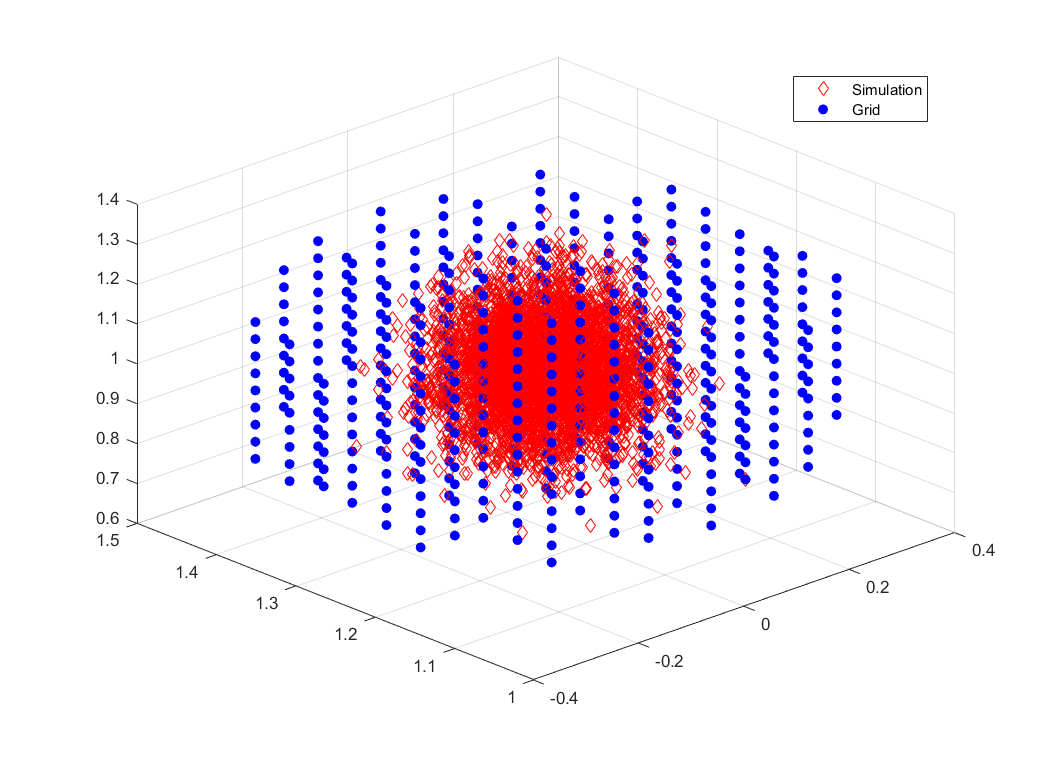
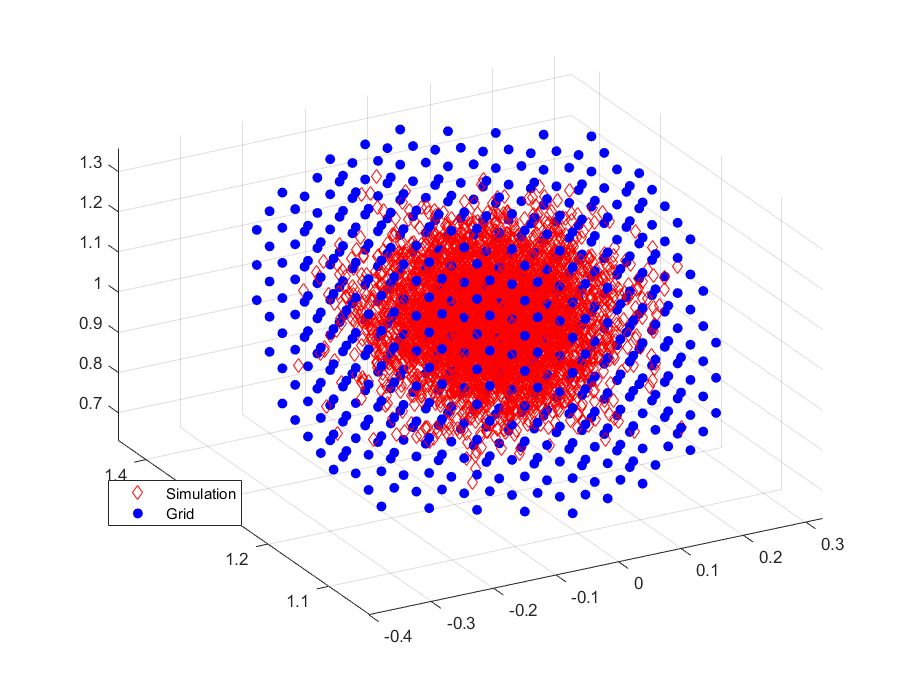
Correct covariance matrix for stationary VAR distribution.

diff --git a/TimeSeries.cpp b/TimeSeries.cpp
@@ -6,7 +6,6 @@
 #include <string>
 
 using namespace arma;
-using namespace std;
 
 namespace TimeSeries {
 
@@ -65,17 +64,30 @@ const MvNormal VAR::conditional(vec& current) const
 
 void VAR::findStationary()
 {
-    // TODO Fail on invert of non-stationary case? Unit root?
     const mat eyeRho = eye(m_size, m_size) - m_rho;
+    double theDet = det(eyeRho);
+
+    if (fabs(theDet) < TStol) {
+        cout << "Determinant " << det(eyeRho) << endl;
+        is_stationary = false;
+        m_statMean.reset();
+        m_statSigma.reset();
+        return;
+    } else
+        is_stationary = true;
+
     m_statMean = solve(eyeRho, m_intercept);
 
-    const mat tmp = inv(eyeRho);
-    m_statSigma = tmp * m_sigma * tmp.t();
-
-    vec eigval;
-    mat eigvec;
-    eig_sym(eigval, eigvec, m_statSigma);
-    is_stationary = eigval.min() >= 0.0;
+    mat v0 = m_sigma;
+    mat v1 = m_sigma;
+    v0.fill(0.0);
+    double err = 1.0;
+    while (err > TStol) {
+        v1 = m_rho * v0 * m_rho.t() + m_sigma;
+        err = abs(v1 - v0).max();
+        v0 = v1;
+    }
+    m_statSigma = v1;
 }
 
 vec& VAR::stationaryMean()
@@ -142,7 +154,7 @@ const rowvec& MarkovChain::stationary()
 
         uword unitEigIx = (abs(abs(eigval) - 1.0)).index_min();
 
-        cout << " sss " << unitEigIx << endl;
+        // cout << " sss " << unitEigIx << endl;
 
         m_stationary = abs(eigvec.col(unitEigIx)).t();
         m_stationary = m_stationary / sum(m_stationary);
@@ -252,9 +264,6 @@ void DiscreteVAR::impl(bool trimGrids)
        * Based on Gordon 2020 wip.
        */
         rowvec probs = m_mc.stationary();
-
-        cout << " el " << probs.n_elem << endl;
-
         uvec removePoints;
         uword removeCount = 0;
         for (uword flatIx = 0; flatIx < m_flatSize; ++flatIx)

diff --git a/main.cpp b/main.cpp
@@ -4,13 +4,12 @@
 
 #include "TimeSeries.hpp"
 
-// using namespace std;
 using namespace arma;
 using namespace TimeSeries;
 
 int main()
 {
-    // example 3
+    // example 3d
     vec icept = { 0.0, 0.25, 1.0 };
     mat rho = {
         { 0.9, 0.0, 0.0 }, //
@@ -23,7 +22,7 @@ int main()
         { 0.0, 0.0, 0.01 }
     };
 
-    /*
+    /* example 2d
     vec icept = { 0.0, 0.25 };
     mat rho = {
         { 0.9, 0.0 }, //
@@ -41,7 +40,7 @@ int main()
         return 1;
     }
 
-    DiscreteVAR myMCvar(myVarN, 15, true);
+    DiscreteVAR myMCvar(myVarN, 9, true);
     // myMCvar.print();
     myMCvar.save("myMCvar.h5");
 

diff --git a/TimeSeries.hpp b/TimeSeries.hpp
@@ -5,6 +5,8 @@ using namespace arma;
 
 namespace TimeSeries {
 
+constexpr double TStol = 1.0E-10;
+
 struct DiscreteRV {
     vec support;
     vec probabilities;
@@ -153,7 +155,7 @@ private:
     uword m_supportSize;
     uword m_size;
     uword m_flatSize;
-    const double pmSd = 3.0;
+    const double pmSd = 3.5;
     const double minPr = 1.0e-6;
 
     mat m_grids;
